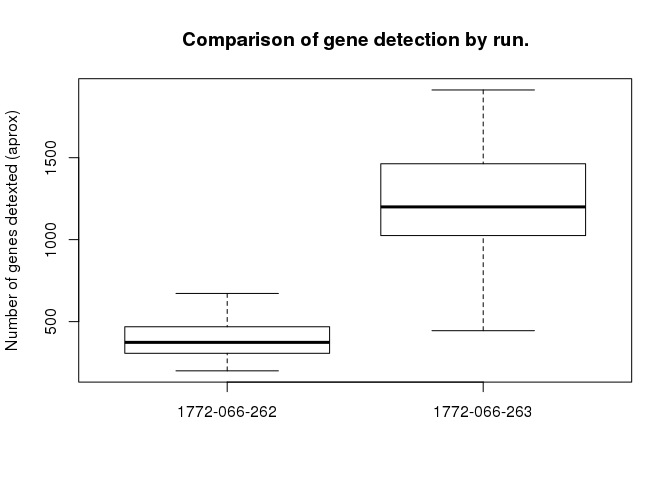
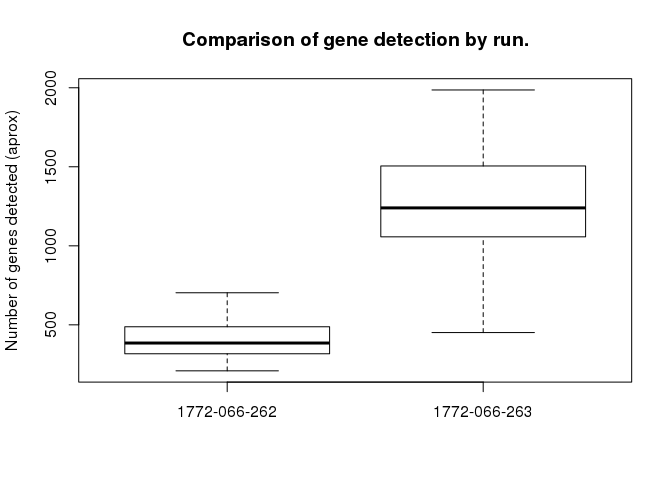
Refreshed with Rstudio.

diff --git a/QC.md b/QC.md
@@ -4,16 +4,18 @@
 Sample C1 CAGE libraries comparing PrimeScript to SuperScript III
 =================================================================
 
-This is a preview of the C1 CAGE technology.  We made two C1 runs differing by
-the RT enzyme used: PrimeScript or SuperScript III, and sequenced them in
+This is a preview of the [C1 CAGE][] technology.  We made two C1 runs differing
+by the RT enzyme used: PrimeScript or SuperScript III, and sequenced them in
 multiplex on a MiSeq v2 kit.
+
+[C1 CAGE]: https://www.fluidigm.com/c1openapp/scripthub/script/2015-07/c1-cage-1436761405138-3
 
 __Warning: this is unpublished results to show what C1 CAGE libraries look like.
 A proper enzyme benchmark needs replicates, but this is out of the scope of
 this document.__
 
 To quickly assess the performance of C1 CAGE (standard condition: SuperScript III),
-can follow the links for the [promoter rate](#annotation-of-transcript-counts-per-run)
+follow the links for the [promoter rate](#annotation-of-transcript-counts-per-run)
 and [gene discovery curves](#rarefaction-hanabi-plot).
 
 Metadata
@@ -31,16 +33,16 @@ ctrls   <- list( RunA=list(posi="C01", nega="D01")
 `LIBRARY` indicates the MiSeq run ID (150519_M00528_0125_000000000-ACUAB), `RunA` and `B` indicate
 the C1 array serial numbers (1772-066-262 and 1772-066-263), and are used as C1 run
 IDs.  The position of the positive controls (wells C01 and
-C03 and negative controls (wells D01 and
+C03) and negative controls (wells D01 and
 H09) in the 96-well plate is also indicated.
 
 Annotation and gene symbols
 ---------------------------
 
-This [knitr](http://yihui.name/knitr/) file a few shell commands before
-starting the annalysis in `R`, to:
+This [knitr](http://yihui.name/knitr/) file runs a few shell commands before
+starting the analysis in `R`, to:
 
- - convert the _level1_ [OSC Table](http://sourceforge.net/projects/osctf/)
+ - convert the single-base-resolution ("_level1_"") [OSC Table](http://sourceforge.net/projects/osctf/)
    to BED format,
    
  - intersect this data to a BED file containing annotations (_promoters_,
@@ -69,7 +71,7 @@ function bed2symbols {
     bedtools groupby -g 1 -c 2 -o distinct
 }
 
-osc2bed output/level1.osc.gz | tee level1.bed | bed2annot - > level1.annot
+osc2bed output/mylevel1file.l1.osc.gz | tee level1.bed | bed2annot - > level1.annot
 bed2symbols level1.bed > level1.genes
 ```
 
@@ -102,14 +104,16 @@ represent single cell libraries (hence the name), and columns are a source
 of metadata like error codes, number of extracted reads, gene count, etc.
 
 The `libs` table is constructed from a processing summary file where each
-line is a tabulation-sparated triple giving metadata for one sample.  For
+line is a tabulation-separated triple giving metadata for one sample.  For
 instance, the line below indicates that cell A01 from run A had 5,855 counts:
 
     transcript_count  RunA_A01  5855
 
 
 ```r
+setwd("output")
 libs <- loadLogs('logs') %>% llPostProcess('nano-fluidigm')
+setwd("..")
 ```
 
 ### Cell picture QC
@@ -133,9 +137,9 @@ libs$Error <- factor( libs$Error
                     , levels=c("0-No Error", "1-No cell", "2-Debris", "3-OutOfFocus", "4-MultipleCells", "5-Control", "6-Dead"))
 ```
 
-A hardocoded treshold of 2.5 is used to identify dead cells.  The histogram
+A hardcoded threshold of 2.5 is used to identify dead cells.  The histogram
 below is to check if this value makes sense in this dataset.  Cells above
-the treshhold are flagged _dead_.
+the threshold are flagged _dead_.
 
 
 ```r
@@ -155,7 +159,7 @@ libs[libs$mean_ch3 - libs$bg_mean_ch3 > deadThresh, "Error"] <- "6-Dead"
 
 ### Positive and negative controls
 
-Some samples with errors were repalced by the positive and negative controls.
+Some samples with errors were replaced by the positive and negative controls.
 The following commands update the `libs` table to reflect this.
 
 
@@ -202,18 +206,21 @@ store the result in the `libs` table.
 
 
 ```r
-l1 <- fread.osc("output/level1.osc.gz", dropIdCoords=TRUE)
+l1 <- fread.osc("output/mylevel1file.l1.osc.gz", dropIdCoords=TRUE)
 ```
 
 ```
 ## 
-Read 0.0% of 115186 rows
-Read 52.1% of 115186 rows
-Read 115186 rows and 390 (of 390) columns from 0.173 GB file in 00:00:05
+Read 0.0% of 197514 rows
+Read 20.3% of 197514 rows
+Read 40.5% of 197514 rows
+Read 60.8% of 197514 rows
+Read 81.0% of 197514 rows
+Read 197514 rows and 389 (of 389) columns from 0.646 GB file in 00:00:11
 ```
 
 ```r
-setnames(l1, colnames(l1) %>% sub('raw.', '', .) %>% sub('.None', '', .) %>% sub('RunA',RunA,.) %>% sub('RunB',RunB,.))
+setnames(l1, colnames(l1) %>% sub('raw.', '', .) %>% sub('.None', '', .) %>% sub('RunA',RunA,.) %>% sub('RunB',RunB,.) %>% sub("_R1", "", .))
 libs$l1 <- colSums(l1 > 0)
 ```
 
@@ -234,7 +241,7 @@ libs$group <- libs$Error
 
 Roughly 10 % only of the reads align to ribosomal RNA.  A large number of reads are
 PCR duplicates (here in the category _mapped_) in the sense that they have the same
-transcription start site and unique molecular identifier.  These PCR duplictes are
+transcription start site and unique molecular identifier.  These PCR duplicates are
 not lost as they are used for paired-end assembly of _CAGEscan fragments_ where each
 independent tagmentation event reconstitutes the original cDNA sequence.
 
@@ -294,12 +301,12 @@ rownames(genesymbols) <- genesymbols$cluster
 
 genes <- rowsum(l1, genesymbols$symbol)
 
-libs$genes       <- colSums(genes > 0)
+libs$genes <- countSymbols(genes)
 ```
 
 ### Correlation between runs
 
-Here, we observe a strong difference beween the runs.
+Here, we observe a strong difference between the runs.
 
 
 ```r
@@ -327,7 +334,7 @@ ggplot(libs, aes(x=Error, y=genes)) +
 
 
 ```r
-boxplot(data=subset(libs, Error == "0-No Error"), genes ~ Run, ylab="Number of genes detexted (aprox)", main="Comparison of gene detection by run.")
+boxplot(data=subset(libs, Error == "0-No Error"), genes ~ Run, ylab="Number of genes detected (aprox)", main="Comparison of gene detection by run.")
 ```
 
 ![](QC_files/figure-html/geneBoxplot-1.png) 
@@ -341,19 +348,19 @@ t.test(data=subset(libs, Error == "0-No Error"), genes ~ Run)
 ## 	Welch Two Sample t-test
 ## 
 ## data:  genes by Run
-## t = -20.5803, df = 64.705, p-value < 2.2e-16
+## t = -20.4868, df = 65.03, p-value < 2.2e-16
 ## alternative hypothesis: true difference in means is not equal to 0
 ## 95 percent confidence interval:
-##  -942.7897 -775.9838
+##  -972.4664 -799.7093
 ## sample estimates:
 ## mean in group 1772-066-262 mean in group 1772-066-263 
-##                   390.2429                  1249.6296
+##                   403.1714                  1289.2593
 ```
 
 The number of genes detected in 1772-066-262 is significantly lower than in 1772-066-263.
 But could it be explained by sampling depth ?  Or would the trend be
 reversed if we would sequence more ?  We answer this question by plotting
-how many genes are discovrered as the number of reads per sample increases.
+how many genes are discovered as the number of reads per sample increases.
 
 ### Rarefaction (hanabi plot)
 
@@ -377,7 +384,7 @@ s <- sort(unique(round(c( cs
 tg <- t(genes)
 
 # Rarefy at each sampling point.  It takes time !
-# In the resluting tables, the columns are a subsampling size, and
+# In the resulting tables, the columns are a subsampling size, and
 # the rows are a cell.
 
 rarg <- sapply(s, function(X) rarefy(tg, X))
@@ -406,4 +413,3 @@ shell commands by hand), to better study how the data is processed in this examp
 We use a comparison of two reverse-transcriptases as
 an supporting example, but a final conclusion on this particular question
 requires analysis of replicates, which is out of the scope here.
-
